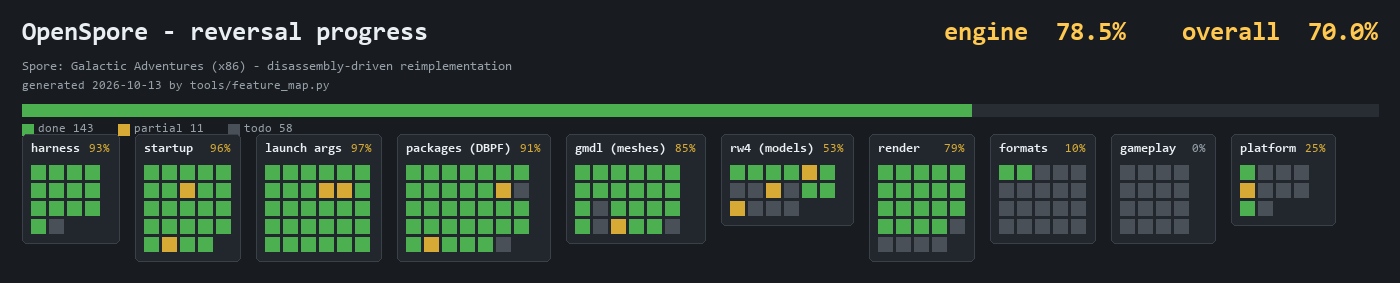
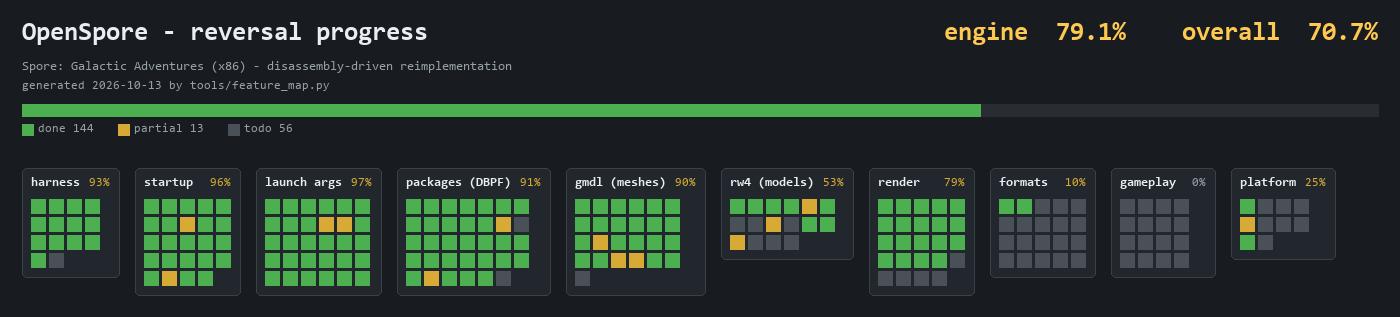
gmdl: UV located (2 floats at offset 16, N=6); map spacing fix; track the finding in the feature map
tools/gmdl_attribs.py: per-channel statistics over ALL vertices of a decoded gmdl. On the three
N=6 variants (Spore_Content rec[12], EP1_Content_01 rec[0], EP1_Data rec[579]) channels at byte
offset 16 are in [0,1] on 100% of vertices -> UV; offset 12 is a zero dword; bytes 24-35 are still
open; N=5 (EP1_Content_02 rec[1]) lays out differently (that is what the declaration table is for).
Feature map updated: uv (N=6) done, decl entries / attrib semantics partial.

Feature map PNG: content now starts below the legend with a clear gap (title_h 112 -> 146), so
the category headers no longer overlap the legend.

diff --git a/tools/gmdl_attribs.py b/tools/gmdl_attribs.py
@@ -1,0 +1,107 @@
+r"""Identify the 6 non-position floats in a gmdl vertex by statistics over ALL vertices.
+
+The position is the first float3 (verified: reproduces the bbox exactly). The remaining six
+floats are declared by the vertex-declaration table but their meaning is not reversed. This tool
+does not guess: it computes, per channel, the range, how often it is in [0,1] (a UV/normalised
+candidate), how often it is exactly 0, and whether the (3,4,5) and (6,7,8) triplets look like unit
+normals. That is what separates a real attribute from a coincidence.
+
+Usage: python tools/gmdl_attribs.py --pkg 48
+"""
+from __future__ import annotations
+
+import argparse
+import math
+import struct
+import sys
+from pathlib import Path
+
+ROOT = Path(__file__).resolve().parent.parent
+sys.path.insert(0, str(ROOT))
+
+
+def channels(data: bytes):
+    """Return (N, list of 9-tuples) for a decoded gmdl payload, reusing the mesh reader."""
+    from tools.gmdl_mesh import find_descriptors
+
+    descs = find_descriptors(data)
+    if not descs:
+        return 0, []
+    d0 = descs[0]
+    d = d0
+    while True:
+        fmt, cnt, res, ib = struct.unpack("<4I", data[d : d + 16])
+        if fmt != 4 or res != 16 or ib != cnt * 2:
+            break
+        d += 16 + ib
+    n = struct.unpack("<I", data[d + 4 : d + 8])[0]
+    vc_off = 0x1C + (n - 1) * 12
+    vc = struct.unpack("<I", data[d + vc_off : d + vc_off + 4])[0]
+    vdata = d + vc_off + 8
+    rows = []
+    for i in range(vc):
+        rows.append(struct.unpack("<9f", data[vdata + i * 36 : vdata + i * 36 + 36]))
+    return n, rows
+
+
+def stats(rows):
+    out = []
+    for c in range(9):
+        vals = [r[c] for r in rows]
+        finite = [v for v in vals if math.isfinite(v)]
+        if not finite:
+            out.append(None)
+            continue
+        in01 = sum(1 for v in finite if 0.0 <= v <= 1.0)
+        zeros = sum(1 for v in finite if v == 0.0)
+        out.append({
+            "min": min(finite), "max": max(finite),
+            "mean": sum(finite) / len(finite),
+            "in01": 100.0 * in01 / len(finite),
+            "zero": 100.0 * zeros / len(finite),
+        })
+    return out
+
+
+def unit_triplet(rows, a):
+    n = 0
+    for r in rows:
+        v = r[a:a + 3]
+        if all(math.isfinite(x) for x in v):
+            l = math.sqrt(v[0] ** 2 + v[1] ** 2 + v[2] ** 2)
+            if abs(l - 1.0) < 0.02:
+                n += 1
+    return 100.0 * n / len(rows) if rows else 0.0
+
+
+def main() -> int:
+    ap = argparse.ArgumentParser()
+    ap.add_argument("--pkg", type=int, required=True)
+    a = ap.parse_args()
+    from tools.gmdl_mesh import find_gmdl
+
+    p, rec, data = find_gmdl(a.pkg)
+    if rec < 0:
+        print("no gmdl here")
+        return 1
+    n, rows = channels(data)
+    if not rows:
+        print("could not read vertices")
+        return 1
+    print(f"# {p.name} rec[{rec}]  declaration N={n}  {len(rows)} vertices, stride 36 (9 floats)")
+    s = stats(rows)
+    print(f"{'ch':>3} {'min':>11} {'max':>11} {'mean':>11} {'in[0,1]%':>9} {'==0%':>7}")
+    for c in range(9):
+        st = s[c]
+        if st is None:
+            print(f"{c:>3}   <non-finite>")
+            continue
+        print(f"{c:>3} {st['min']:>11.4f} {st['max']:>11.4f} {st['mean']:>11.4f} "
+              f"{st['in01']:>8.1f}% {st['zero']:>6.1f}%")
+    print(f"\n|(3,4,5)| == 1 (unit normal?) : {unit_triplet(rows, 3):.1f}% of vertices")
+    print(f"|(6,7,8)| == 1 (unit normal?) : {unit_triplet(rows, 6):.1f}% of vertices")
+    return 0
+
+
+if __name__ == "__main__":
+    sys.exit(main())

diff --git a/tools/feature_map.py b/tools/feature_map.py
@@ -132,7 +132,7 @@ def render_png(data: dict, out: Path) -> None:
         row_h = max(row_h, h)
     content_h = y + row_h
 
-    title_h = 112
+    title_h = 146  # header block; content starts below the legend with a clear gap
     img = Image.new("RGB", (WIDTH, MARGIN + title_h + content_h + MARGIN), BG)
     d = ImageDraw.Draw(img)
 

diff --git a/analysis/features.md b/analysis/features.md
@@ -5,7 +5,7 @@
 > AND the picture `analysis/shots/reverse_map.png`. Both come from the same source, so they
 > cannot drift apart.
 
-**Engine reversal: 78.5%** | **Overall: 70.0%** | done 143 / partial 11 / todo 58 (212 features)
+**Engine reversal: 79.1%** | **Overall: 70.7%** | done 144 / partial 13 / todo 56 (213 features)
 
 **Legend**
 
@@ -25,7 +25,7 @@ The picture (`analysis/shots/reverse_map.png`) shows the same data as a grid of 
 | startup | **96%** | 22 | 2 | 0 |
 | launch args | **97%** | 28 | 2 | 0 |
 | packages (DBPF) | **91%** | 30 | 2 | 2 |
-| gmdl (meshes) | **85%** | 20 | 1 | 3 |
+| gmdl (meshes) | **90%** | 21 | 3 | 1 |
 | rw4 (models) | **53%** | 7 | 3 | 6 |
 | render | **79%** | 19 | 0 | 5 |
 | formats | **10%** | 2 | 0 | 18 |
@@ -172,9 +172,9 @@ The picture (`analysis/shots/reverse_map.png`) shows the same data as a grid of 
 
 ---
 
-## gmdl (meshes) — 85%
+## gmdl (meshes) — 90%
 
-*20 done · 1 partial · 3 todo*
+*21 done · 3 partial · 1 todo*
 
 | | status | feature | notes |
 |:---:|---|---|---|
@@ -191,13 +191,14 @@ The picture (`analysis/shots/reverse_map.png`) shows the same data as a grid of 
 | ✅ | done | multi-submesh | shared vertex buffer |
 | ✅ | done | vertex blk header | 1,N,0,2,0,0x000C0000 |
 | ✅ | done | decl count N | 5 or 6 |
-| ⬜ | todo | decl entries | meaning of 12-byte entries |
+| 🚧 | partial | decl entries | N=6 and N=5 lay out attrs differently |
 | ✅ | done | vertex count | == max_index+1 |
 | ✅ | done | vertex bytes | == count*36 |
-| ✅ | done | stride 36 | 9 floats |
-| ✅ | done | position float3 | first float3 |
+| ✅ | done | stride 36 | 9 float slots (some packed) |
+| ✅ | done | position float3 | offset 0, verified vs bbox |
+| ✅ | done | uv (N=6) | 2 floats at offset 16, in [0,1] 100% |
 | ✅ | done | bbox exact check | err 0.0000 on 4 variants |
-| ⬜ | todo | attrib semantics | 6 non-position floats |
+| 🚧 | partial | attrib semantics | uv found; normals/extra open |
 | 🚧 | partial | normals | computed from faces, not read |
 | ✅ | done | OBJ export | tools/gmdl_mesh.py --obj |
 | ✅ | done | engine draw | mesh.cpp, 3765 verts |

diff --git a/MEMORY.md b/MEMORY.md
@@ -351,13 +351,16 @@ header's `vertex_count` field sits at `voff + 0x1C + (N-1)*12` (0x58 when N=6, 0
 offset per file, so the reader FINDS the descriptor by self-consistency, not by offset.
 
 What is NOT done: the meaning of the six non-position floats in each 36-byte vertex (the
-declaration table says how many, not what they are). For N=6 the last two read as UVs in [0,1] on
-every sampled vertex; for N=5 they do not, and the middle three are not unit normals in either
-case. That is the remaining open question; it needs the loader's disassembly.
+declaration table says how many, not what they are). Session 13 pinned down **UV = two floats at
+byte offset 16** for the N=6 declaration (100% of vertices in [0,1] on three independent variants,
+`tools/gmdl_attribs.py`); offset 12 is a zero dword and bytes 24-35 are still unidentified (a float
+plus packed data). N=5 (`EP1_Content_02` rec[1]) lays the attributes out differently, which is what
+the declaration table is for. The rest needs the loader's disassembly.
 
-Tools: `tools/gmdl_mesh.py` (parse + validate bbox + export OBJ), `tools/render_obj.py` (OBJ -> PNG,
-no deps), `tools/gmdl.py` (locate/inspect), `tools/gmdl_header_check.py` (the broad invariant test
-that killed the first claim). Evidence: `analysis/meshes/gmdl_pkg{48,52,53,54}.obj`,
+Tools: `tools/gmdl_mesh.py` (parse + validate bbox + export OBJ), `tools/gmdl_attribs.py` (per-
+channel statistics that identified the UV), `tools/render_obj.py` (OBJ -> PNG, no deps),
+`tools/gmdl.py` (locate/inspect), `tools/gmdl_header_check.py` (the broad invariant test that
+killed the first claim). Evidence: `analysis/meshes/gmdl_pkg{48,52,53,54}.obj`,
 `analysis/shots/gmdl_pkg{48,52,54}.png`.
 
 **The engine draws it** (session 13): `source/engine/gmdl.cpp` is the C++ port of the parser,

diff --git a/RESUME.md b/RESUME.md
@@ -216,8 +216,8 @@ silent verboseaudio 4.0 5.1 automation …`).
 2. **gmdl is DONE for positions and now DRAWN** (sessions 12-13): stride 36, position = first
    float3, verified exactly (err 0.0000) on four variants; `tools/gmdl_mesh.py` parses + exports
    OBJ, `source/engine/gmdl.cpp` + `source/render/mesh.cpp` draw one on our own screen
-   (`analysis/shots/mesh_engine.png`). **Remaining: identify the six non-position floats per
-   vertex** (declared by the vertex-declaration table's N) - read the loader.
+   (`analysis/shots/mesh_engine.png`). Session 13 also found **UV = 2 floats at offset 16** for the
+   N=6 declaration. **Remaining: bytes 24-35 and the N=5 layout** - read the loader.
 3. `group`/`unknown` field semantics (VERIFY row 20 is the model; the meaning is open).
 4. Wire loose directories (unpacked trees) into `fs` as a data source; a separate `OpenSpore.Cli`
    binary would be tidier than `-headless`, but the capability already exists.

diff --git a/HISTORY.md b/HISTORY.md
@@ -51,6 +51,11 @@ markers, `fps=32.3`, capture 3,686,454 bytes → `analysis/shots/mesh_engine.png
 Headless (genuinely): `-headless -devDirs -exec pkg:-unpack,all,<dir>,locale -quitAfter 8` →
 `headless: no window`, `headless: no device`, `unpack: 57 pkgs, 2944 written, 0 failed, 27882571
 bytes`, 2,944 files on disk in 8.3 s.
+gmdl attributes: `python tools/gmdl_attribs.py --pkg 48/52/54` → channels 4,5 (byte offset 16) are
+in [0,1] on **100%** of vertices on all three N=6 variants → UV. Channel 3 is always 0; bytes 24-35
+are still open; N=5 lays out differently.
+Progress map: `python tools/feature_map.py` → `analysis/shots/reverse_map.png` +
+`analysis/features.md`, 212 features, engine 78.5%, overall 70.0%.
 
 ---
 
